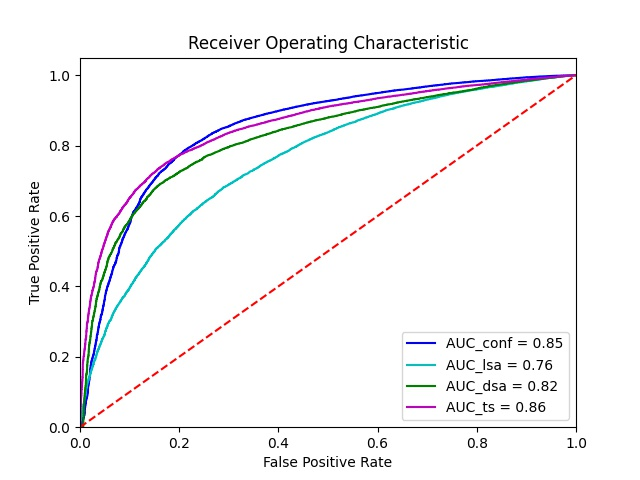
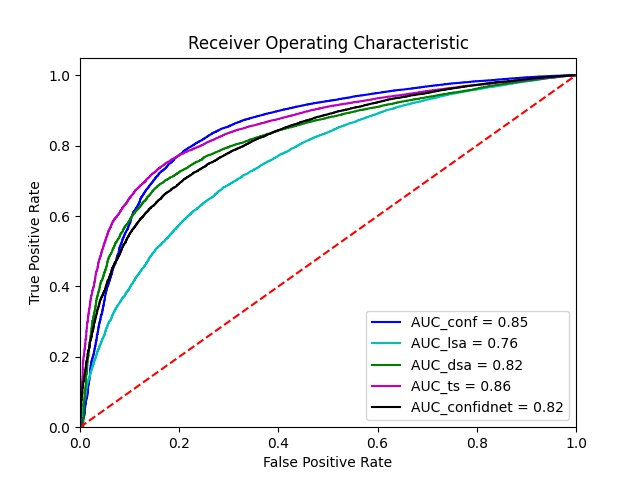
add roc curve imagenet

diff --git a/roc_curve.py b/roc_curve.py
@@ -53,11 +53,14 @@ if __name__ == '__main__':
         lsa = convert_list_number_to_float(load_file('./metrics/%s_%s_lsa_avg_pool.txt' % (args.d, args.model)))
         dsa = convert_list_number_to_float(load_file('./metrics/%s_%s_dsa_avg_pool.txt' % (args.d, args.model)))
         ts = convert_list_number_to_float(load_file('./metrics/%s_%s_ts_avg_pool.txt' % (args.d, args.model)))
+
+        confidnet_accurate = convert_list_string_to_True_False(load_file('./metrics/%s_%s_confidnet_accurate.txt' % (args.d, args.model)))
+        confidnet_score = convert_list_number_to_float(load_file('./metrics/%s_%s_confidnet_score.txt' % (args.d, args.model)))
     
     binary_predicted_true = convert_predict_and_true_to_binary(predicted=predicted, true=true)   
 
     ################################################################################################################
-    if args.d == 'mnist' or args.d == 'cifar':
+    if args.d == 'mnist' or args.d == 'cifar' or args.d == 'imagenet':
         fpr_confidnet, tpr_confidnet, _ = roc_curve(confidnet_accurate, confidnet_score)
         roc_auc_confidnet = auc(fpr_confidnet, tpr_confidnet)
     ################################################################################################################
@@ -123,7 +126,7 @@ if __name__ == '__main__':
         plt.plot(fpr_lsa, tpr_lsa, 'c', label = 'AUC_lsa = %0.2f' % roc_auc_lsa)
         plt.plot(fpr_dsa, tpr_dsa, 'g', label = 'AUC_dsa = %0.2f' % roc_auc_dsa)
         plt.plot(fpr_ts, tpr_ts, 'm', label = 'AUC_ts = %0.2f' % roc_auc_ts) 
-        # plt.plot(fpr_confidnet, tpr_confidnet, 'k', label = 'AUC_confidnet = %0.2f' % roc_auc_confidnet) 
+        plt.plot(fpr_confidnet, tpr_confidnet, 'k', label = 'AUC_confidnet = %0.2f' % roc_auc_confidnet) 
         plt.legend(loc = 'lower right')
         plt.plot([0, 1], [0, 1],'r--')
         plt.xlim([0, 1])
